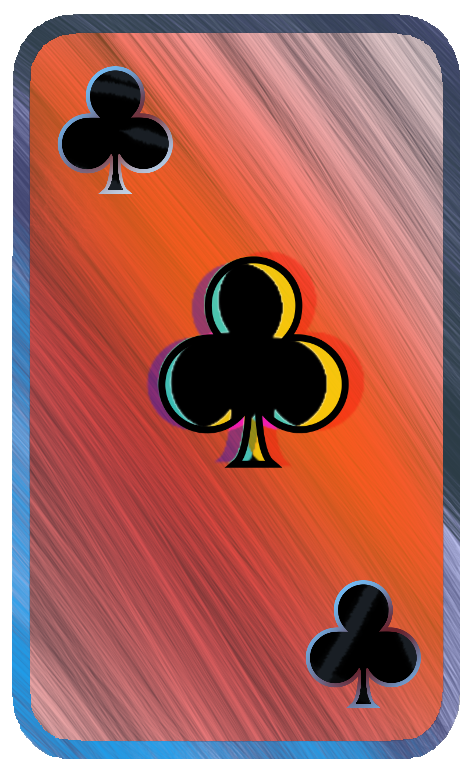
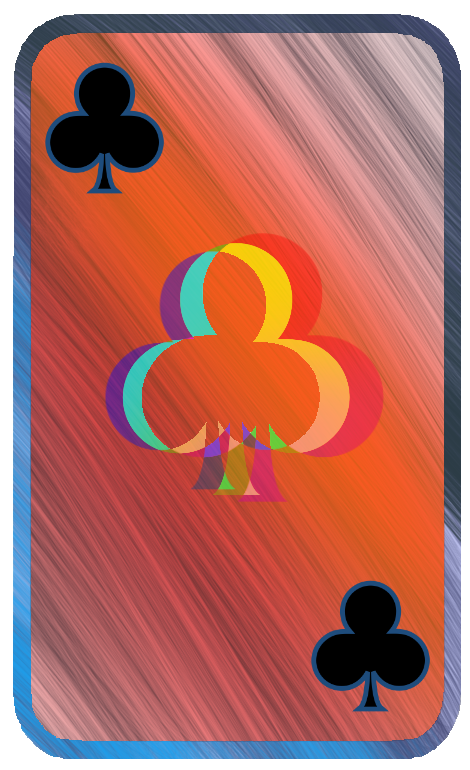
project structure

diff --git a/src/group/skat/src/javaFX/FXController.java b/src/group/skat/src/javaFX/FXController.java
@@ -33,9 +33,6 @@ import java.util.*;
 
 public class FXController implements Player, Initializable {
 
-    public AnchorPane AnchorGameMessage;
-    public Label LabelGameMessage;
-
     /** this is the index of the player inside the Game. If set to -1 the Console will always use the currentPlayer as perspective, making it hotseat*/
     int playerGameIndex = -1;
     boolean suitGame = false;
@@ -540,18 +537,19 @@ public class FXController implements Player, Initializable {
 
     /* OUTLETS */
 
-    public AnchorPane anchor_root;
+
+
     public AnchorPane anchor_DebugView;
-    public Label label_ShowHideDebugView;
-    public Label label_WindowSize;
-    public ImageView ImageViewBackground;
+    public AnchorPane AnchorGameMessage;
+    public AnchorPane AnchorAuctionDialog;
+    public AnchorPane anchor_root;
     public AnchorPane AnchorPlayerhandShelfMid;
     public AnchorPane AnchorPlayerhandShelfLeft;
     public AnchorPane AnchorPlayerhandShelfRight;
     public AnchorPane AnchorCardEx;
-    public ImageView BackgroundCard;
-    public ImageView CardForeground;
-    public ImageView CardForeground1;
+    public AnchorPane AnchorTrickOne = new AnchorPane();
+    public AnchorPane AnchorTrickTwo = new AnchorPane();
+    public AnchorPane AnchorTrickThree = new AnchorPane();
     public AnchorPane AnchorViewSkat;
     public AnchorPane AnchorSkatCardLeft;
     public AnchorPane AnchorSkatCardRight;
@@ -563,19 +561,28 @@ public class FXController implements Player, Initializable {
     public AnchorPane AnchorButtonPA5;
     public AnchorPane AnchorButtonSort;
     public AnchorPane AnchorWelcomeResultNewGameView;
-    public ImageView ImageViewWRNBackground;
+
+    public Label label_ShowHideDebugView;
+    public Label label_WindowSize;
+    public Label LabelGameMessage;
+    public Label LabelAuctionViewText;
+    public Label LabelAuctionViewTitle;
     public Label LabelResultNewGame1;
     public Label LabelResultNewGame2;
     public Label LabelResultNewGame3;
     public Label LabelResultNewGame4;
     public Label LabelResultNewGame5;
     public Label LabelGameNo;
+
+    public ImageView ImageViewWRNBackground;
     public ImageView IVButtonPlay;
     public ImageView IVButtonNext;
+    public ImageView ImageViewBackground;
+    public ImageView BackgroundCard;
+    public ImageView CardForeground;
+    public ImageView CardForeground1;
 
-    public AnchorPane AnchorTrickOne = new AnchorPane();
-    public AnchorPane AnchorTrickTwo = new AnchorPane();
-    public AnchorPane AnchorTrickThree = new AnchorPane();
+
 
     public void AnchorButtonSortClicked(MouseEvent mouseEvent) {
     }

diff --git a/src/group/skat/src/javaFX/FXCard.java b/src/group/skat/src/javaFX/FXCard.java
@@ -37,7 +37,7 @@ public class FXCard {
     private static final Image turnedDown = new Image(TURNED_DOWN_URL);
 
     // TODO: update URL
-    private static final String HIGHLIGHT_URL = "images/Cards/CardBack.png"; // TODO: !
+    private static final String HIGHLIGHT_URL = "images/Cards/CardHighlighted.png";
     private static final Image highlight = new Image(HIGHLIGHT_URL);
 
     // TODO: update URLs
@@ -52,11 +52,11 @@ public class FXCard {
     private static final String ACE_URL = "images/Cards/CardAce.png";
     private static final String KING_URL = "images/Cards/CardKing.png";
     private static final String QUEEN_URL = "images/Cards/CardQueen.png";
-    private static final String JACK_URL = "images/Cards/CardAce.png";
-    private static final String TEN_URL = "images/Cards/CardAce.png";
-    private static final String NINE_URL = "images/Cards/CardAce.png";
-    private static final String EIGHT_URL = "images/Cards/CardAce.png";
-    private static final String SEVEN_URL = "images/Cards/CardAce.png";  // TODO: !
+    private static final String JACK_URL = "images/Cards/CardJack.png";
+    private static final String TEN_URL = "images/Cards/Card10.png";
+    private static final String NINE_URL = "images/Cards/Card9.png";
+    private static final String EIGHT_URL = "images/Cards/Card8.png";
+    private static final String SEVEN_URL = "images/Cards/Card7.png";  // TODO: !
 
     private static final Image clubsI = new Image(CLUBS_I_URL);
     private static final Image clubsN = new Image(CLUBS_N_URL);
@@ -222,6 +222,7 @@ public class FXCard {
     public void setSelected(boolean selected) {
 
         isSelected = selected;
+        update();
     }
 
     /* OTHER */

diff --git a/src/group/skat/src/javaFX/FXHandShelf.java b/src/group/skat/src/javaFX/FXHandShelf.java
@@ -122,7 +122,7 @@ public class FXHandShelf {
         if (selectedCardIndex == -1) {
 
             selectedCardIndex = index;
-        //    handFXCards[index].setSelected(true);
+            handFXCards[index].setSelected(true);
 
         } else if (selectedCardIndex == index || handFXCards[index].isSelected()) {
 